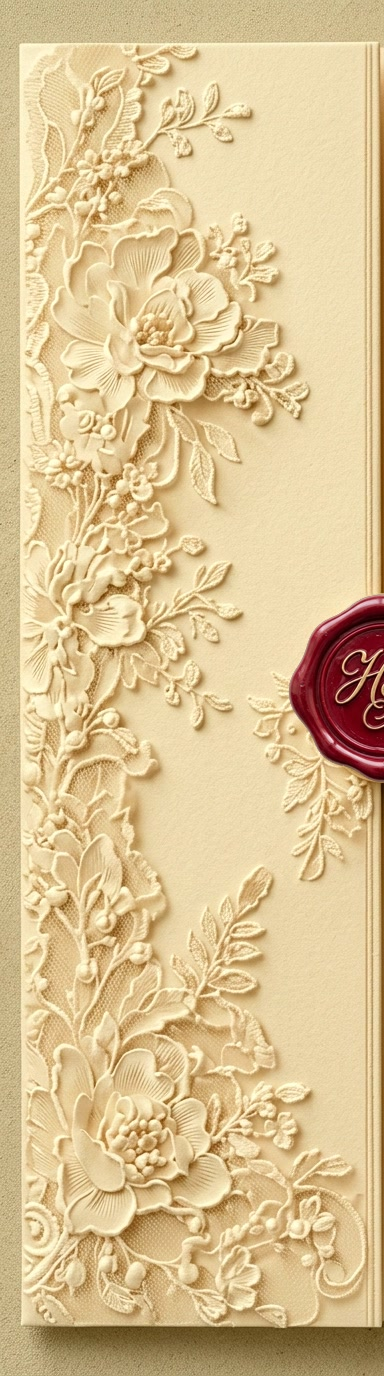
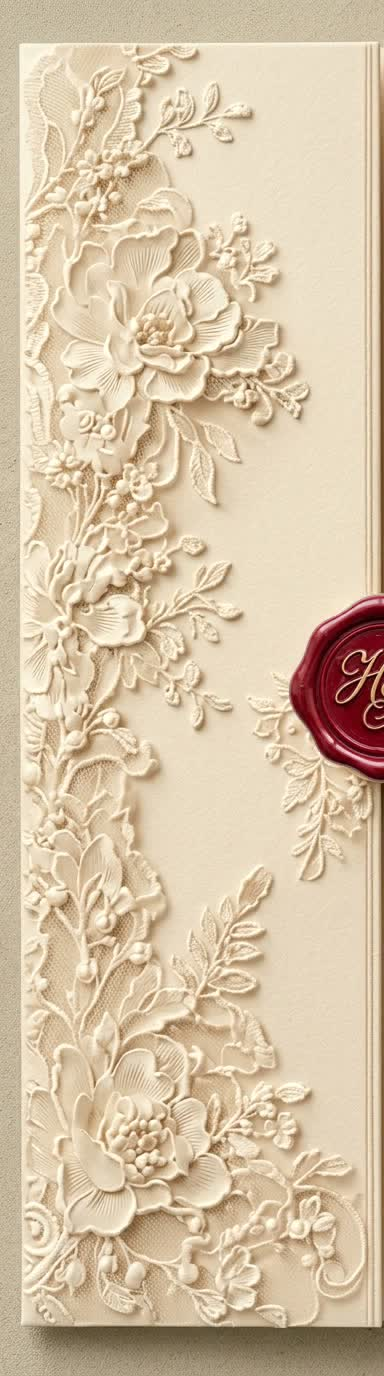
Subtle champagne gates, 3D-corrected glow, card-matched rose petals
- Gate doors: swapped to the subtle champagne-pearl tone (replacing the
  more saturated golden-tint version), matching the interior filigree
  more closely. Source asset had a color mismatch between left/right
  doors on first delivery (confirmed by sampling: blue channel off by
  34 points) - re-copied after the user corrected it, now within
  7-11 points across all channels.
- Glow layering fix: added transform-style:preserve-3d to
  .gatefold-screen and pushed .gate-glow to translateZ(-60px)/z-index:-1
  so it actually renders behind the doors in the 3D compositor instead
  of flattening on top of the seal's face. Removed the seam rim-light
  pseudo-element that was casting a glare directly across the seal, and
  retimed gateGlowSpill so it doesn't flare until the doors have
  actually started to crack open (0-15% is now a hold, not instant).
- Petals: replaced the cherry-blossom sprites with card-matching
  burgundy/blush rose petal sprites, deleted the old unused sprite
  files from assets/images/decorations/.

Changed region(s): [[0.0, 0.0, 1.0, 1.0], [0.4375, 0.5625, 0.4688, 0.5938]]

diff --git a/css/style.css b/css/style.css
@@ -197,6 +197,7 @@ section {
     height: 100dvh;
     z-index: 100;
     perspective: 1600px;
+    transform-style: preserve-3d;
     cursor: pointer;
     transition: opacity 1s ease 1.1s, visibility 1s ease 1.1s;
 }
@@ -262,16 +263,21 @@ section {
     transform: rotateY(108deg);
 }
 
-/* Golden backlight flare, behind both doors (z-index 0 vs their 1/2) -
-   flares up as the doors start to crack open, peaks mid-swing, and
-   dissolves by the time the hero is revealed. */
+/* Golden backlight flare, pushed behind both doors in actual 3D space
+   (translateZ(-60px), plus z-index -1 as a 2D-context fallback) - flares
+   up once the doors have actually started cracking open, peaks mid-swing,
+   and dissolves by the time the hero is revealed. Previously sat only at
+   z-index 0 with no Z depth, which let it render ON TOP of the doors'
+   own glossy seal face in Safari/WebKit's 3D compositor - transform-style:
+   preserve-3d on the parent (.gatefold-screen) is what makes the Z axis
+   actually apply here instead of being flattened. */
 .gate-glow {
     position: absolute;
     top: 50%;
     left: 50%;
-    transform: translate(-50%, -50%) scale(0.6);
-    width: 220px;
-    height: 380px;
+    transform: translate(-50%, -50%) translateZ(-60px) scale(0.6);
+    width: 240px;
+    height: 420px;
     border-radius: 50%;
     background: radial-gradient(
         ellipse at center,
@@ -280,10 +286,10 @@ section {
         rgba(212, 163, 115, 0.5) 55%,
         rgba(212, 163, 115, 0) 75%
     );
-    filter: blur(25px);
+    filter: blur(28px);
     opacity: 0;
     pointer-events: none;
-    z-index: 0;
+    z-index: -1;
 }
 
 .gatefold-screen.is-open .gate-glow {
@@ -291,44 +297,32 @@ section {
 }
 
 @keyframes gateGlowSpill {
-    0% {
+    0%, 15% {
         opacity: 0;
-        transform: translate(-50%, -50%) scale(0.5);
+        transform: translate(-50%, -50%) translateZ(-60px) scale(0.6);
     }
-    15% {
-        opacity: 1;
-        transform: translate(-50%, -50%) scale(1.1);
-        filter: blur(20px);
+    30% {
+        opacity: 0.85;
+        transform: translate(-50%, -50%) translateZ(-60px) scale(1.1);
+        filter: blur(22px);
     }
-    45% {
-        opacity: 0.9;
-        transform: translate(-50%, -50%) scale(1.6);
+    55% {
+        opacity: 0.95;
+        transform: translate(-50%, -50%) translateZ(-60px) scale(1.6);
         filter: blur(35px);
     }
     80% {
-        opacity: 0.35;
-        transform: translate(-50%, -50%) scale(2.2);
+        opacity: 0.3;
+        transform: translate(-50%, -50%) translateZ(-60px) scale(2.2);
     }
     100% {
         opacity: 0;
-        transform: translate(-50%, -50%) scale(2.6);
+        transform: translate(-50%, -50%) translateZ(-60px) scale(2.6);
     }
-}
-
-/* Rim-light along the parting seam of the left door */
-.gatefold-screen.is-open .gate-left::after {
-    content: '';
-    position: absolute;
-    top: 0; right: 0; width: 4px; height: 100%;
-    box-shadow: 0 0 25px 6px rgba(255, 220, 130, 0.8);
-    pointer-events: none;
 }
 
 @media (prefers-reduced-motion: reduce) {
     .gate-glow {
-        display: none;
-    }
-    .gatefold-screen.is-open .gate-left::after {
         display: none;
     }
 }
@@ -463,16 +457,16 @@ section {
 }
 
 .hero-petals .p1,  .hero-petals .p5,  .hero-petals .p9,  .hero-petals .p13 {
-    background-image: url('../assets/images/decorations/petal-blush.png');
+    background-image: url('../assets/images/decorations/rose-petal-burgundy.png');
 }
 .hero-petals .p2,  .hero-petals .p6,  .hero-petals .p10 {
-    background-image: url('../assets/images/decorations/floret-blossom.png');
+    background-image: url('../assets/images/decorations/rose-petal-blush.png');
 }
 .hero-petals .p3,  .hero-petals .p7,  .hero-petals .p11 {
-    background-image: url('../assets/images/decorations/petal-curl.png');
+    background-image: url('../assets/images/decorations/rose-petal-curled.png');
 }
 .hero-petals .p4,  .hero-petals .p8,  .hero-petals .p12,  .hero-petals .p14 {
-    background-image: url('../assets/images/decorations/petal-ivory.png');
+    background-image: url('../assets/images/decorations/rose-petal-ombre.png');
 }
 
 /* Originates top-right (matching the rose cluster already baked into
